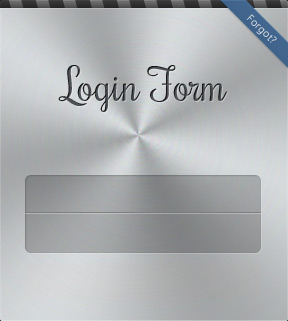
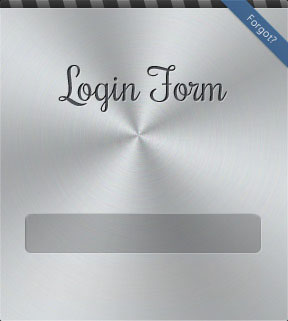
07

Changed region(s): [[0.0625, 0.5296, 0.9062, 0.6854]]

diff --git a/login.html b/login.html
@@ -15,9 +15,8 @@
     <body>
 
 		<div id="formContainer">
-			<form id="login" method="post" action="./">
+			<form id="login" method="post" action="index1.html">
 				<a href="#" id="flipToRecover" class="flipLink">Forgot?</a>
-				<input type="text" name="loginEmail" id="loginEmail" value="Email" />
 				<input type="password" name="loginPass" id="loginPass" value="pass" />
 				<input type="submit" name="submit" value="Login" />
 			</form>
